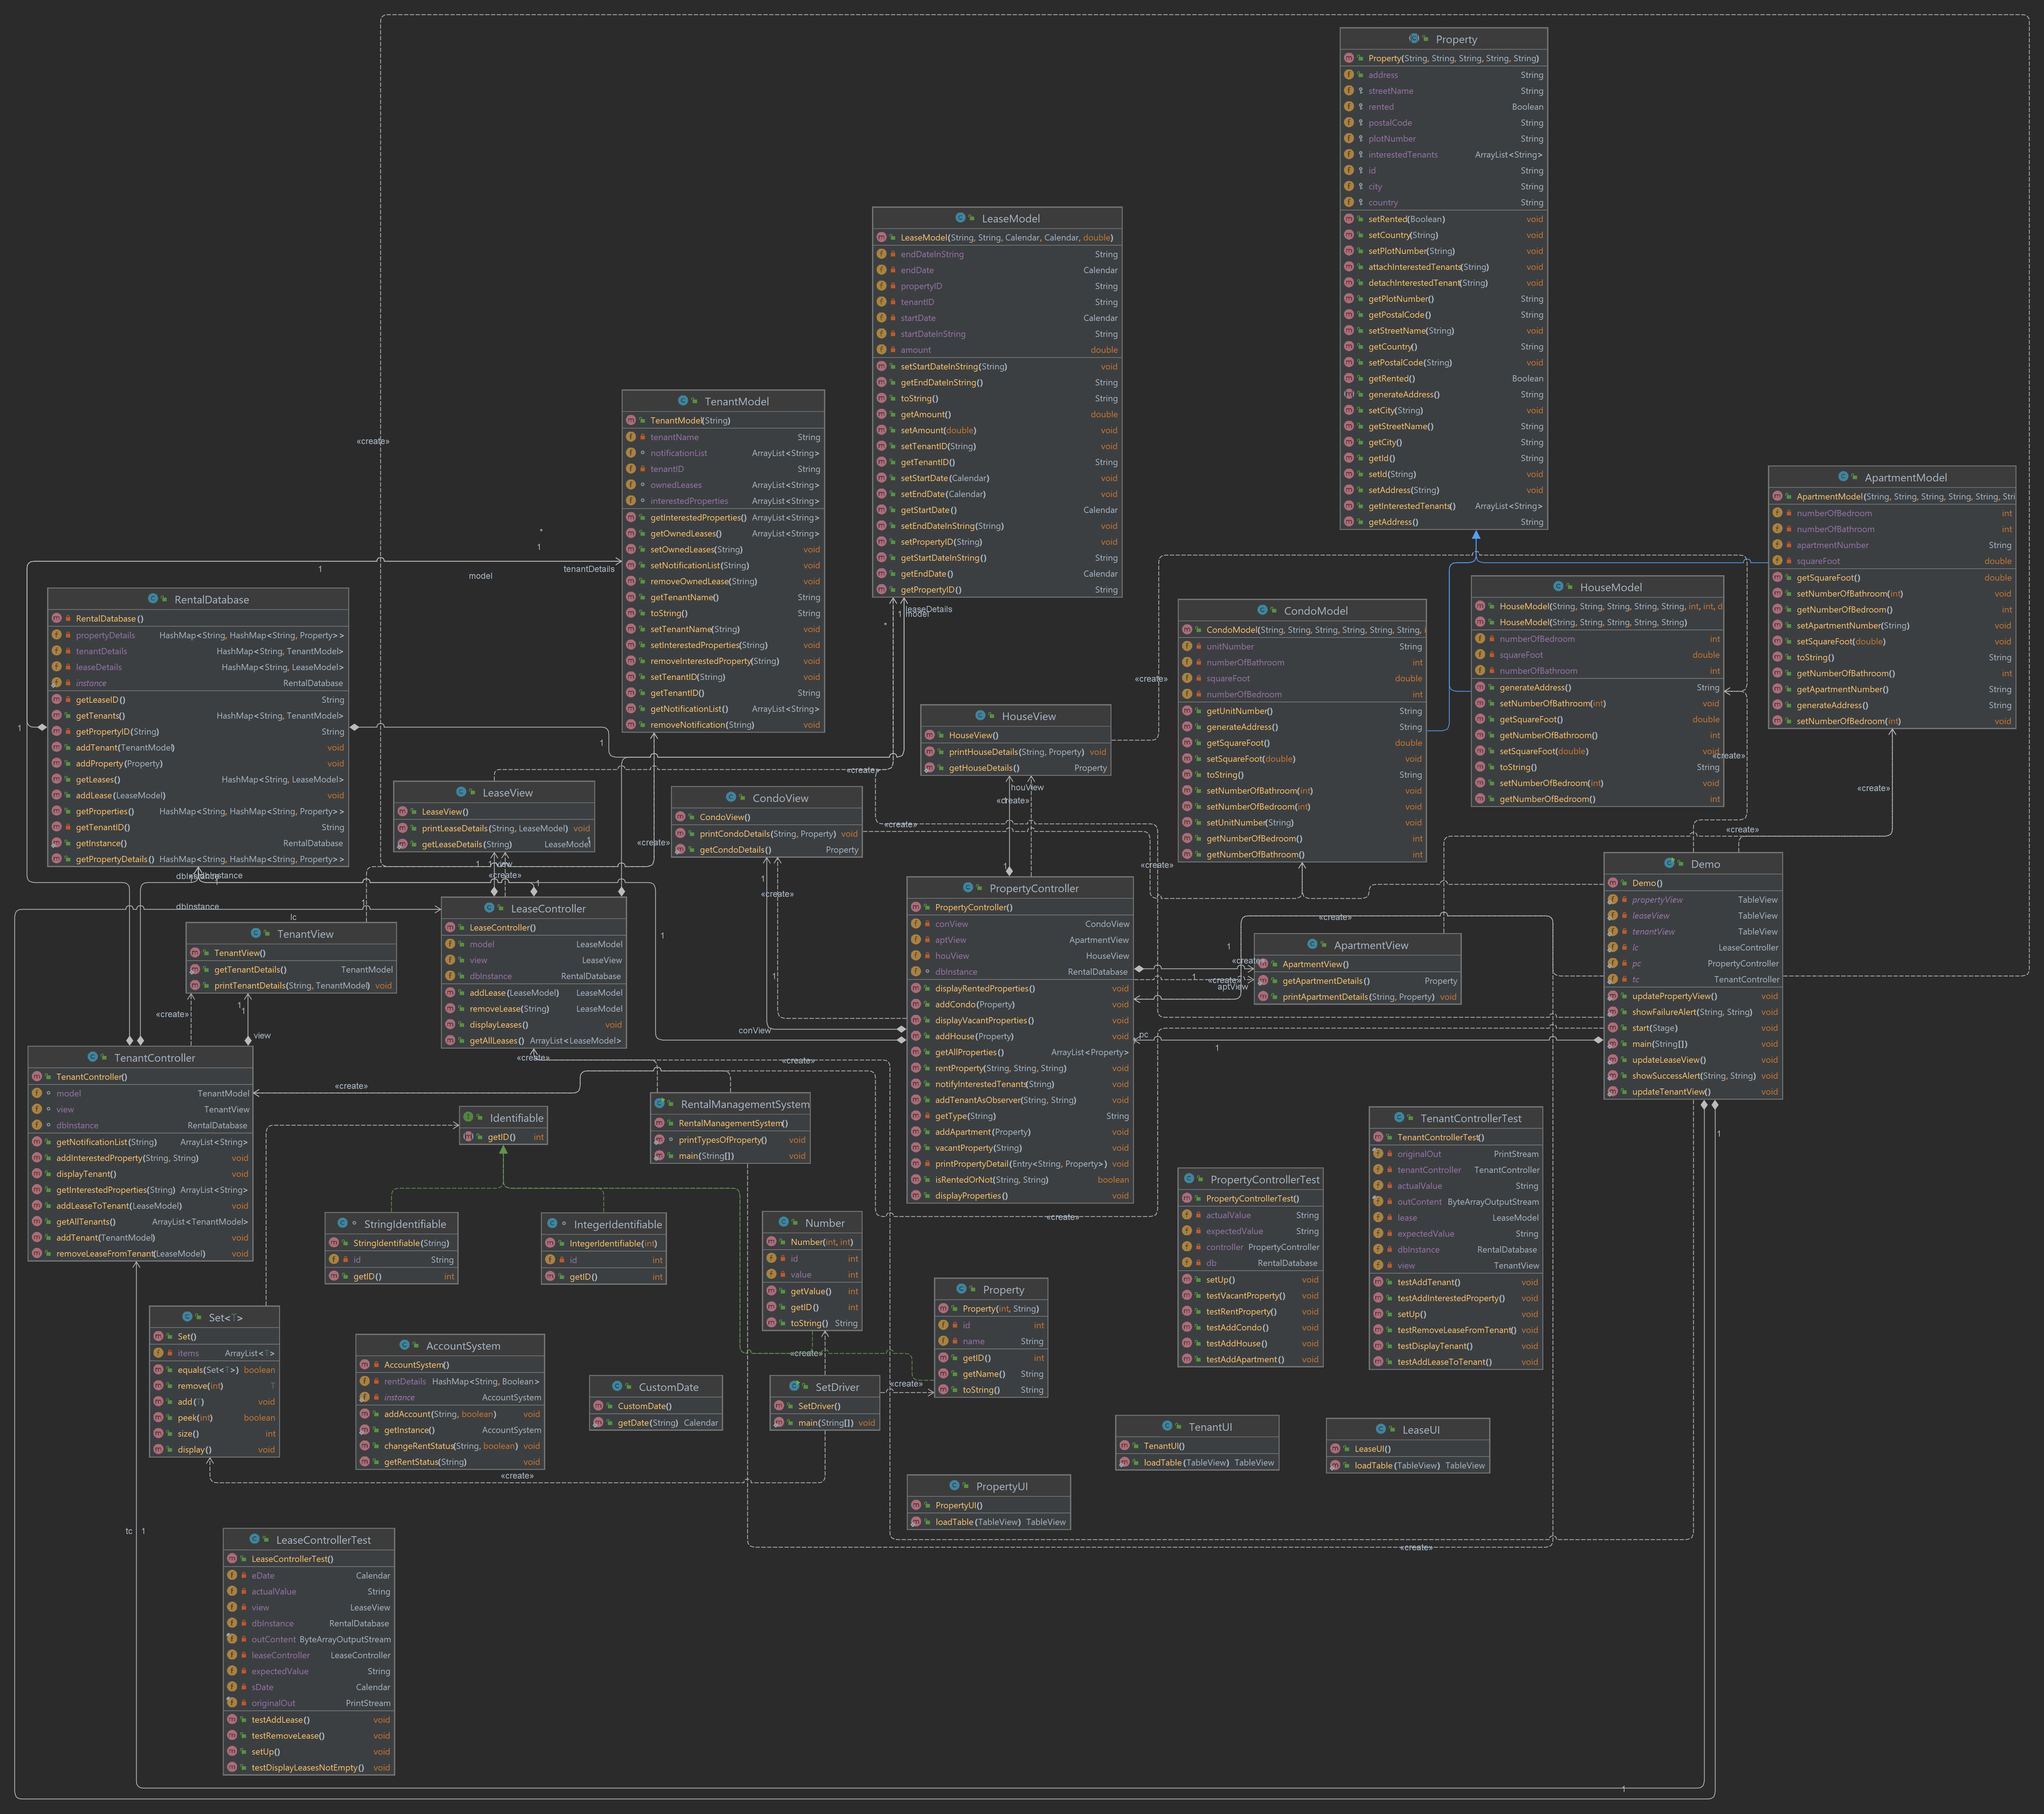
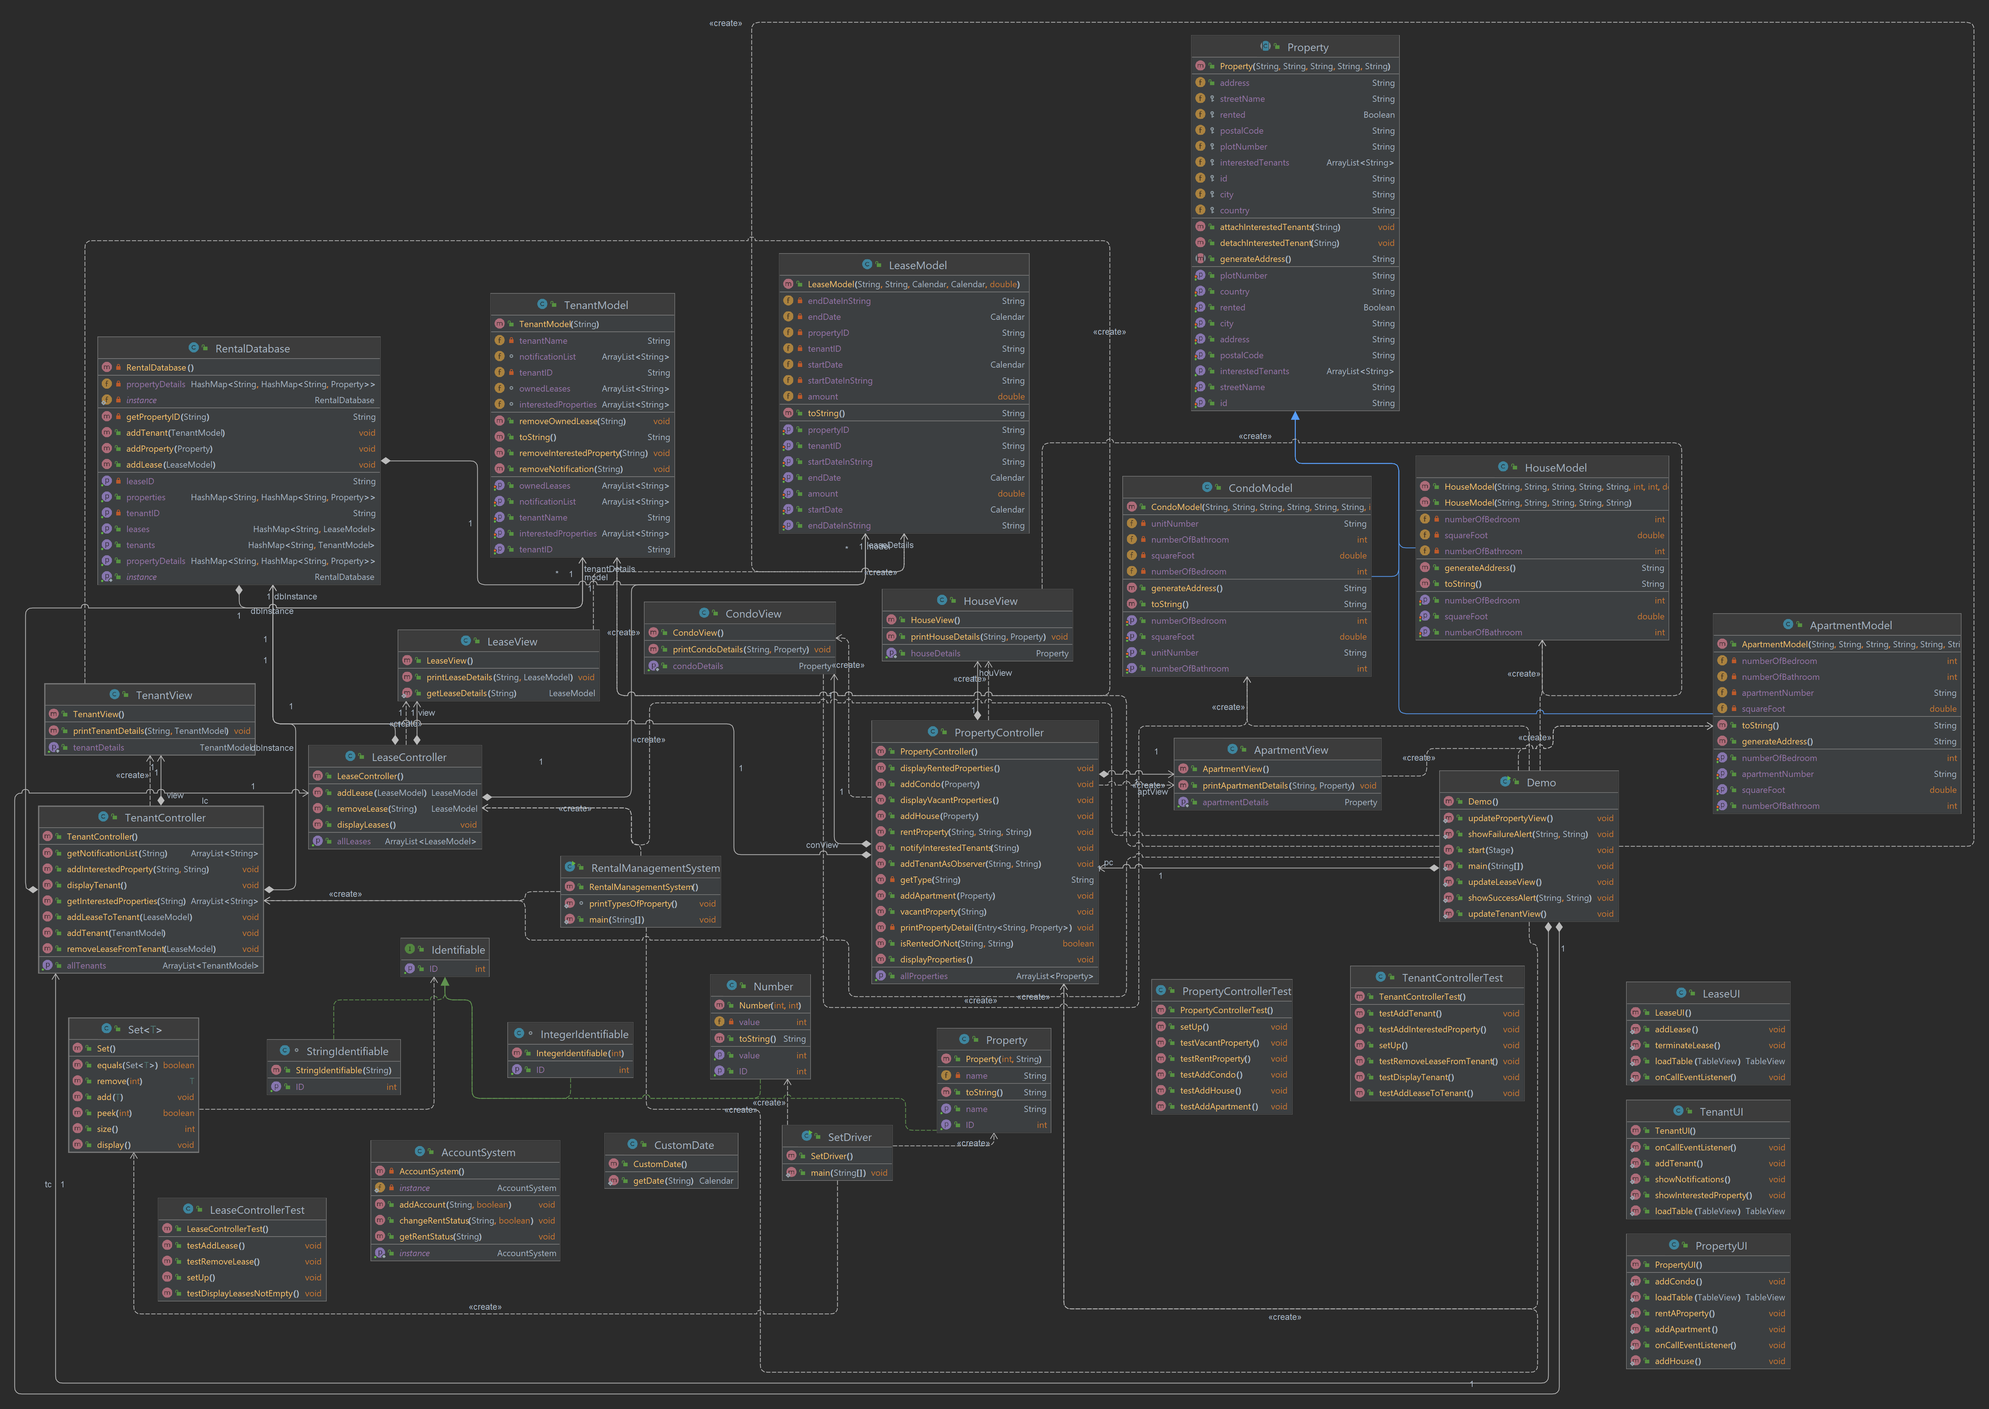
UML

diff --git a/src/view/UI/PropertyUI.java b/src/view/UI/PropertyUI.java
@@ -62,4 +62,25 @@ public class PropertyUI {
 
         return propertyView;
     }
+
+    public static void onCallEventListener() {
+
+    }
+
+    public static void addApartment() {
+
+    }
+
+    public static void addCondo() {
+
+    }
+
+    public static void addHouse() {
+
+    }
+
+    public static void rentAProperty() {
+
+    }
+
 }

diff --git a/src/view/UI/TenantUI.java b/src/view/UI/TenantUI.java
@@ -33,4 +33,20 @@ public class TenantUI {
 
         return tenantView;
     }
+
+    public static void onCallEventListener() {
+
+    }
+
+    public static void addTenant() {
+
+    }
+
+    public static void showInterestedProperty() {
+
+    }
+
+    public static void showNotifications() {
+
+    }
 }

diff --git a/src/view/UI/LeaseUI.java b/src/view/UI/LeaseUI.java
@@ -53,4 +53,16 @@ public class LeaseUI {
 
         return leaseView;
     }
+
+    public static void onCallEventListener() {
+
+    }
+
+    public static void addLease() {
+
+    }
+
+    public static void terminateLease() {
+
+    }
 }
